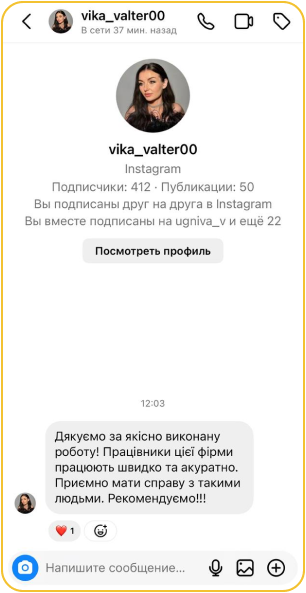
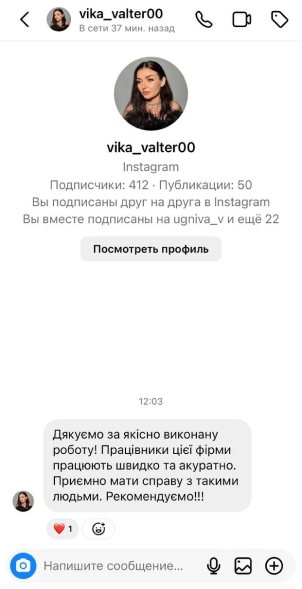
BACK

diff --git a/index.html b/index.html
@@ -711,7 +711,7 @@
                 <div class="coments__inner">
                     <div class="photos">
                         <div class="forScreenShot">
-                            <div class="image dec"><img src="img/image_card_mob-1.png" alt="screenshop"></div>
+                            <div class="image dec"><img src="img/screenshop-1.png" alt="screenshop"></div>
                             <div class="image dec"><img src="img/screenshop-2.png" alt="screenshop"></div>
                             <div class="image dec"><img src="img/screenshop-3.png" alt="screenshop"></div>
                             <div class="image dec"><img src="img/screenshop-4.png" alt="screenshop"></div>

diff --git a/css/style.css b/css/style.css
@@ -975,7 +975,9 @@
         margin-top: 0px; } }
     .coments .photos img {
       opacity: 0.5;
-      transition: 0.4s all; }
+      transition: 0.4s all;
+      border: 1px solid #F3C231;
+      border-radius: 20px; }
       @media (max-width: 979px) {
         .coments .photos img {
           opacity: 1; } }
@@ -1401,7 +1403,9 @@
         margin-top: 0px; } }
     .coments .photos img {
       opacity: 0.5;
-      transition: 0.4s all; }
+      transition: 0.4s all;
+      border: 1px solid #F3C231;
+      border-radius: 20px; }
       @media (max-width: 979px) {
         .coments .photos img {
           opacity: 1; } }

diff --git a/sass/_coments.sass b/sass/_coments.sass
@@ -29,6 +29,8 @@
         img
             opacity: 0.5
             transition: 0.4s all
+            border: 1px solid #F3C231
+            border-radius: 20px
             @include _979
                 opacity: 1
                 
